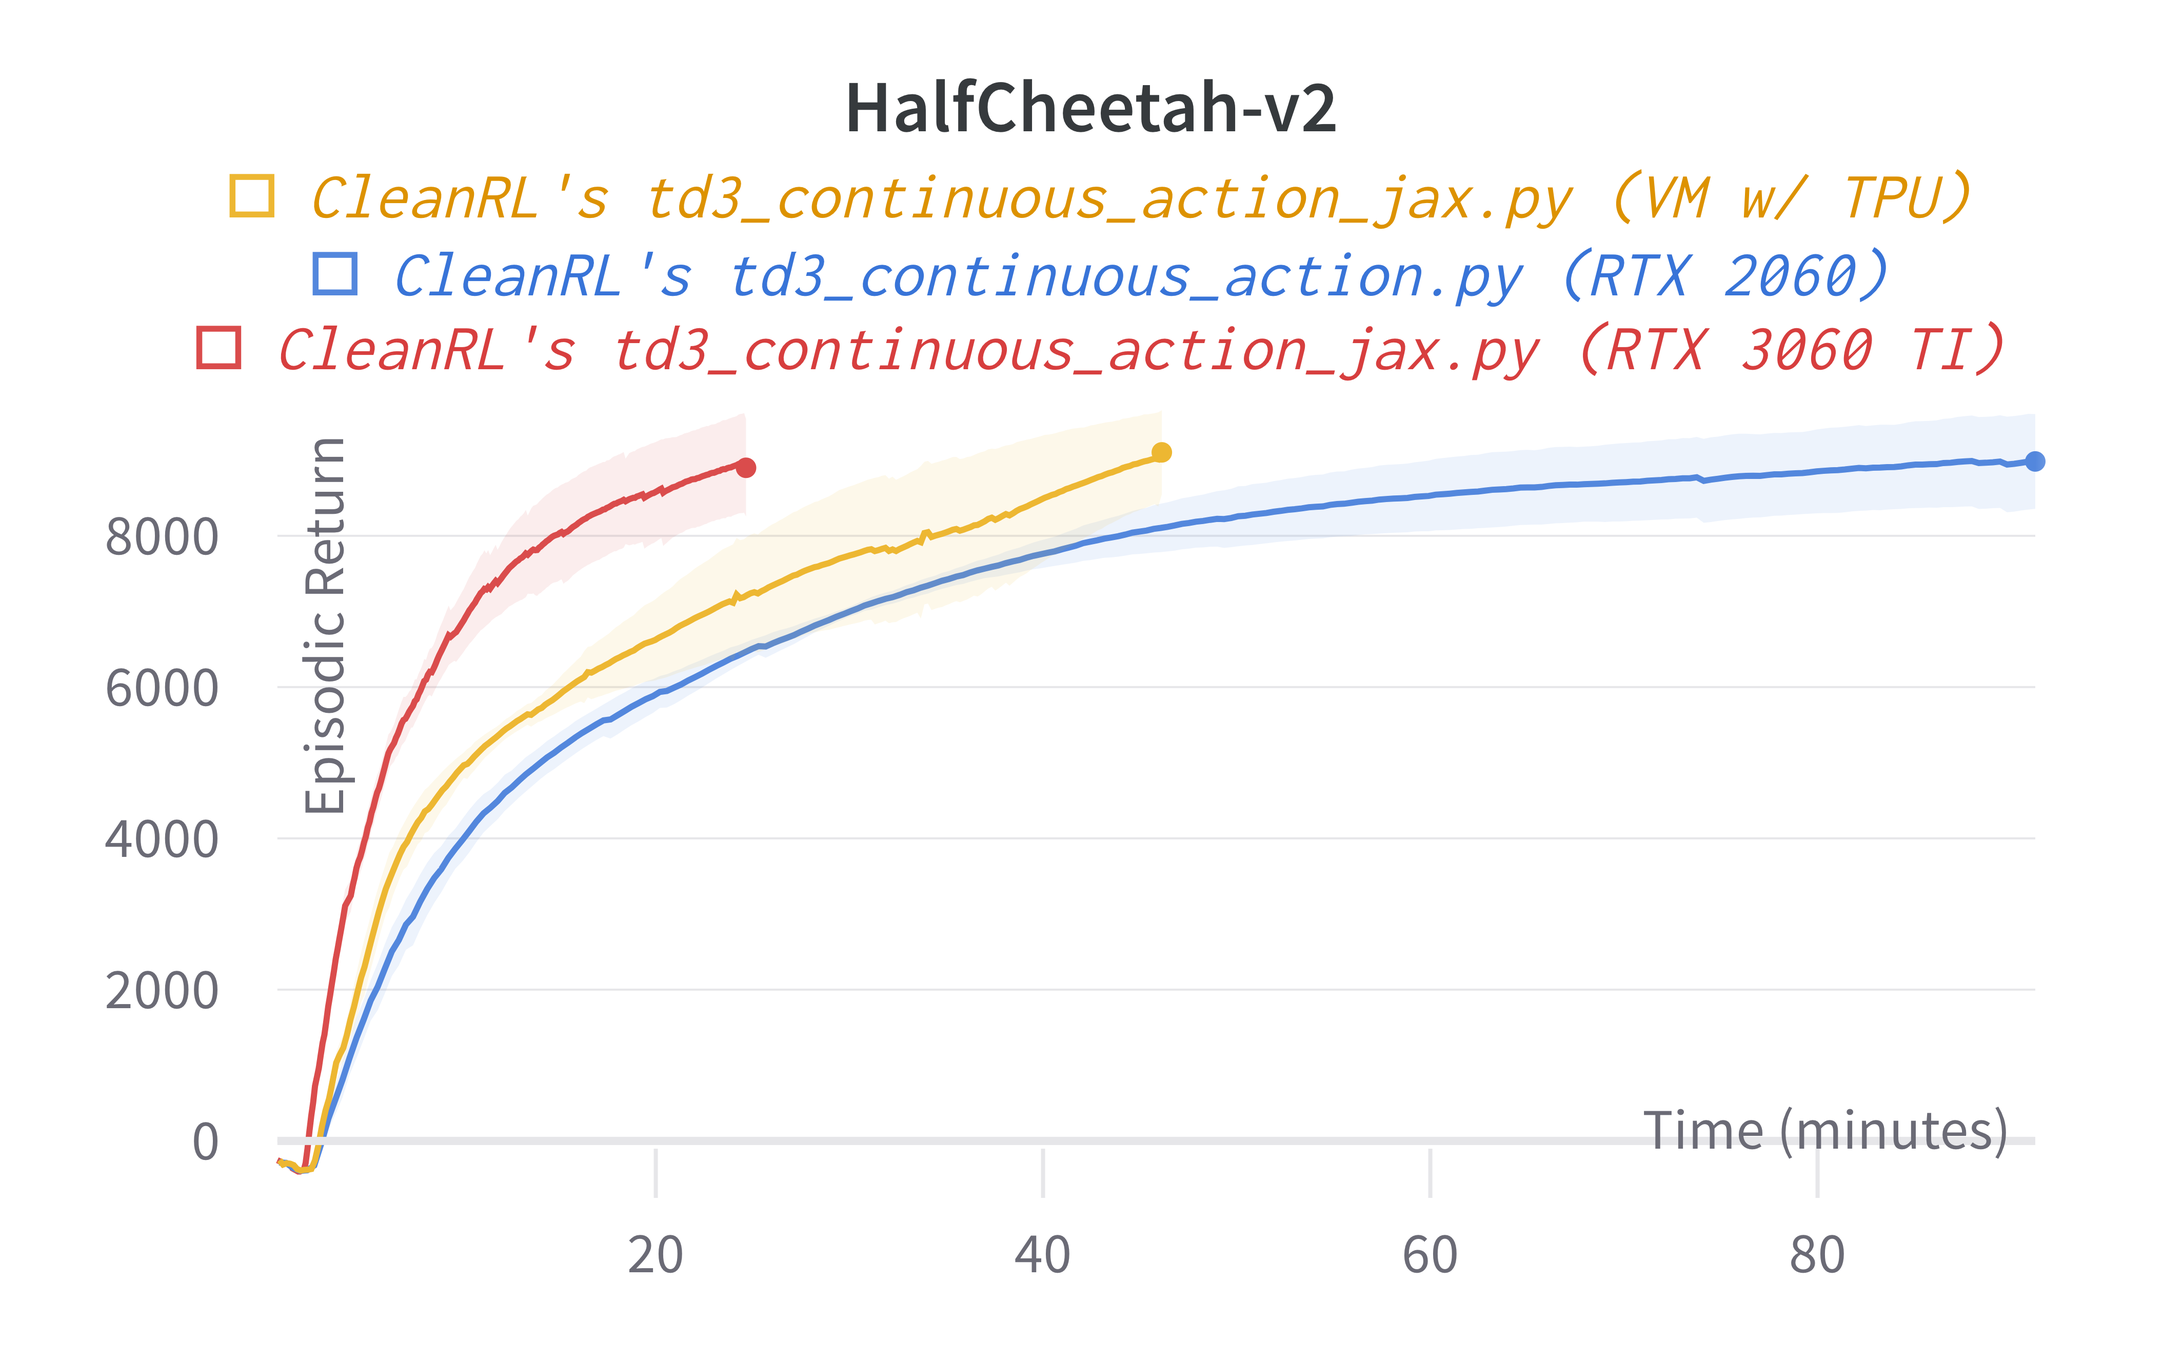
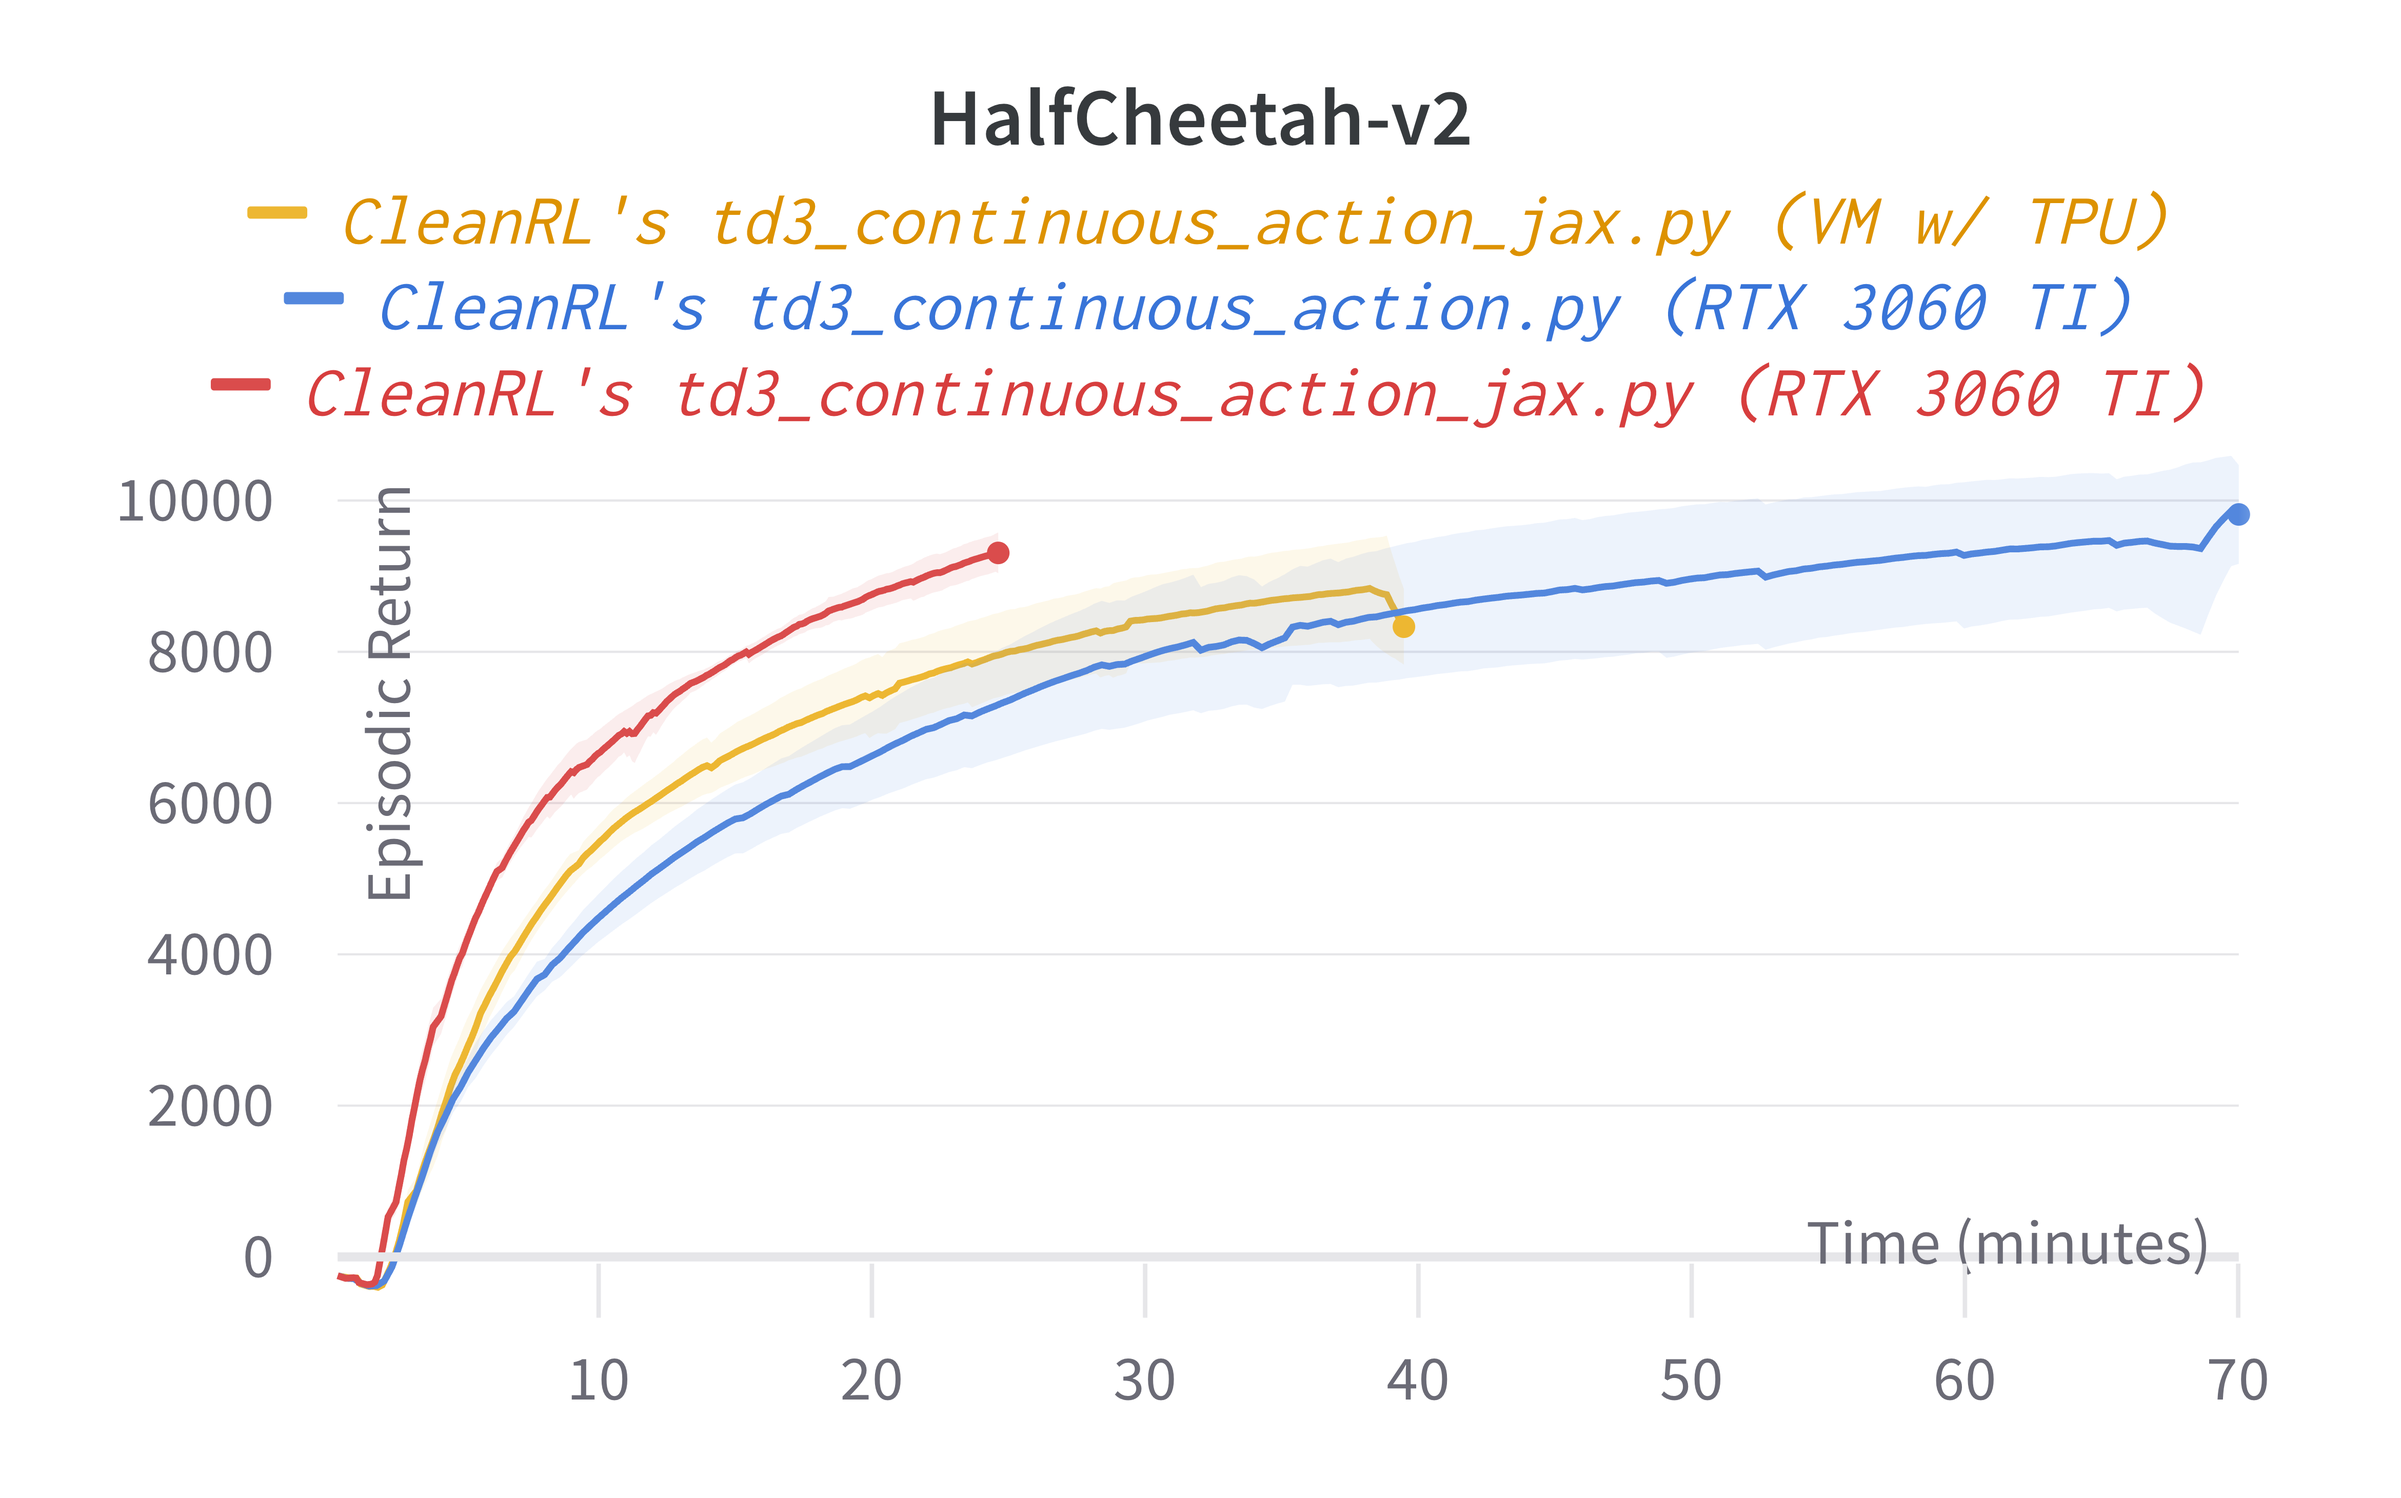
update docs

diff --git a/docs/rl-algorithms/td3.md b/docs/rl-algorithms/td3.md
@@ -116,7 +116,7 @@ Additionally, when drawing exploration noise that is added to the actions produc
 
 To run benchmark experiments, see :material-github: [benchmark/td3.sh](https://github.com/vwxyzjn/cleanrl/blob/master/benchmark/td3.sh). Specifically, execute the following command:
 
-<script src="https://emgithub.com/embed.js?target=https%3A%2F%2Fgithub.com%2Fvwxyzjn%2Fcleanrl%2Fblob%2F2e2dc9c6ede5e5e5df3eaea73c458bb9a83507d2%2Fbenchmark%2Ftd3.sh%23L1-L7&style=github&showBorder=on&showLineNumbers=on&showFileMeta=on&showCopy=on"></script>
+<script src="https://emgithub.com/embed-v2.js?target=https%3A%2F%2Fgithub.com%2Fvwxyzjn%2Fcleanrl%2Fblob%2Fmaster%2Fbenchmark%2Ftd3.sh%23L1-L7&style=github&type=code&showBorder=on&showLineNumbers=on&showFileMeta=on&showFullPath=on&showCopy=on"></script>
 
 
 Below are the average episodic returns for [`td3_continuous_action.py`](https://github.com/vwxyzjn/cleanrl/blob/master/cleanrl/td3_continuous_action.py) (3 random seeds). To ensure the quality of the implementation, we compared the results against (Fujimoto et al., 2018)[^2].
@@ -198,16 +198,15 @@ See [related docs](/rl-algorithms/td3/#implementation-details) for `td3_continuo
 
 To run benchmark experiments, see :material-github: [benchmark/ddpg.sh](https://github.com/vwxyzjn/cleanrl/blob/master/benchmark/ddpg.sh). Specifically, execute the following command:
 
-<script src="https://emgithub.com/embed.js?target=https%3A%2F%2Fgithub.com%2Fvwxyzjn%2Fcleanrl%2Fblob%2F5bfdd4574d25474d641278ef5c47a97932b5b9e2%2Fbenchmark%2Ftd3.sh%23L9-L16&style=github&showBorder=on&showLineNumbers=on&showFileMeta=on&showCopy=on"></script>
+<script src="https://emgithub.com/embed-v2.js?target=https%3A%2F%2Fgithub.com%2Fvwxyzjn%2Fcleanrl%2Fblob%2Fmaster%2Fbenchmark%2Ftd3.sh%23L9-L16&style=github&type=code&showBorder=on&showLineNumbers=on&showFileMeta=on&showFullPath=on&showCopy=on"></script>
 
 Below are the average episodic returns for [`td3_continuous_action.py`](https://github.com/vwxyzjn/cleanrl/blob/master/cleanrl/td3_continuous_action.py) (3 random seeds). To ensure the quality of the implementation, we compared the results against (Fujimoto et al., 2018)[^2].
 
-| Environment      | [`td3_continuous_action_jax.py`](https://github.com/vwxyzjn/cleanrl/blob/master/cleanrl/td3_continuous_action_jax.py) (RTX 3060 Ti) | [`td3_continuous_action_jax.py`](https://github.com/vwxyzjn/cleanrl/blob/master/cleanrl/td3_continuous_action_jax.py) (VM w/ TPU) | [`td3_continuous_action.py`](https://github.com/vwxyzjn/cleanrl/blob/master/cleanrl/td3_continuous_action.py) (RTX 2060) | [`TD3.py`](https://github.com/sfujim/TD3/blob/master/TD3.py) (Fujimoto et al., 2018, Table 1)[^2]  |
+| Environment      | [`td3_continuous_action_jax.py`](https://github.com/vwxyzjn/cleanrl/blob/master/cleanrl/td3_continuous_action_jax.py) (RTX 3060 TI) | [`td3_continuous_action_jax.py`](https://github.com/vwxyzjn/cleanrl/blob/master/cleanrl/td3_continuous_action_jax.py) (VM w/ TPU) | [`td3_continuous_action.py`](https://github.com/vwxyzjn/cleanrl/blob/master/cleanrl/td3_continuous_action.py) (RTX 3060 TI) | [`TD3.py`](https://github.com/sfujim/TD3/blob/master/TD3.py) (Fujimoto et al., 2018, Table 1)[^2]  |
 | ----------- | ----------- | ----------- | ----------- |  ----------- | 
-| HalfCheetah |  9099.93 ± 1171.83  | 9127.81 ± 965.42  | 9018.31 ± 1078.31      |9636.95 ± 859.065  |
-| Walker2d |  2874.39 ± 1684.57 | 3519.38 ± 368.02 | 4246.07 ± 1210.84     |  4682.82 ± 539.64 | 
-| Hopper |   3382.66 ± 242.52 | 3126.40 ± 558.93 | 3391.78 ± 232.21        |  3564.07 ± 114.74 | 
-
+| HalfCheetah |  9408.62 ± 473.23  | 8948.33 ± 1196.87  | 9449.94 ± 1586.49      |9636.95 ± 859.065  |
+| Walker2d |  3512.14 ± 1576.59 | 4107.63 ± 173.93  | 3851.55 ± 335.29     |  4682.82 ± 539.64 | 
+| Hopper |   2898.62 ± 485.18 | 3151.80 ± 458.68 | 3162.21 ± 261.08        |  3564.07 ± 114.74 | 
 
 
 ???+ info
